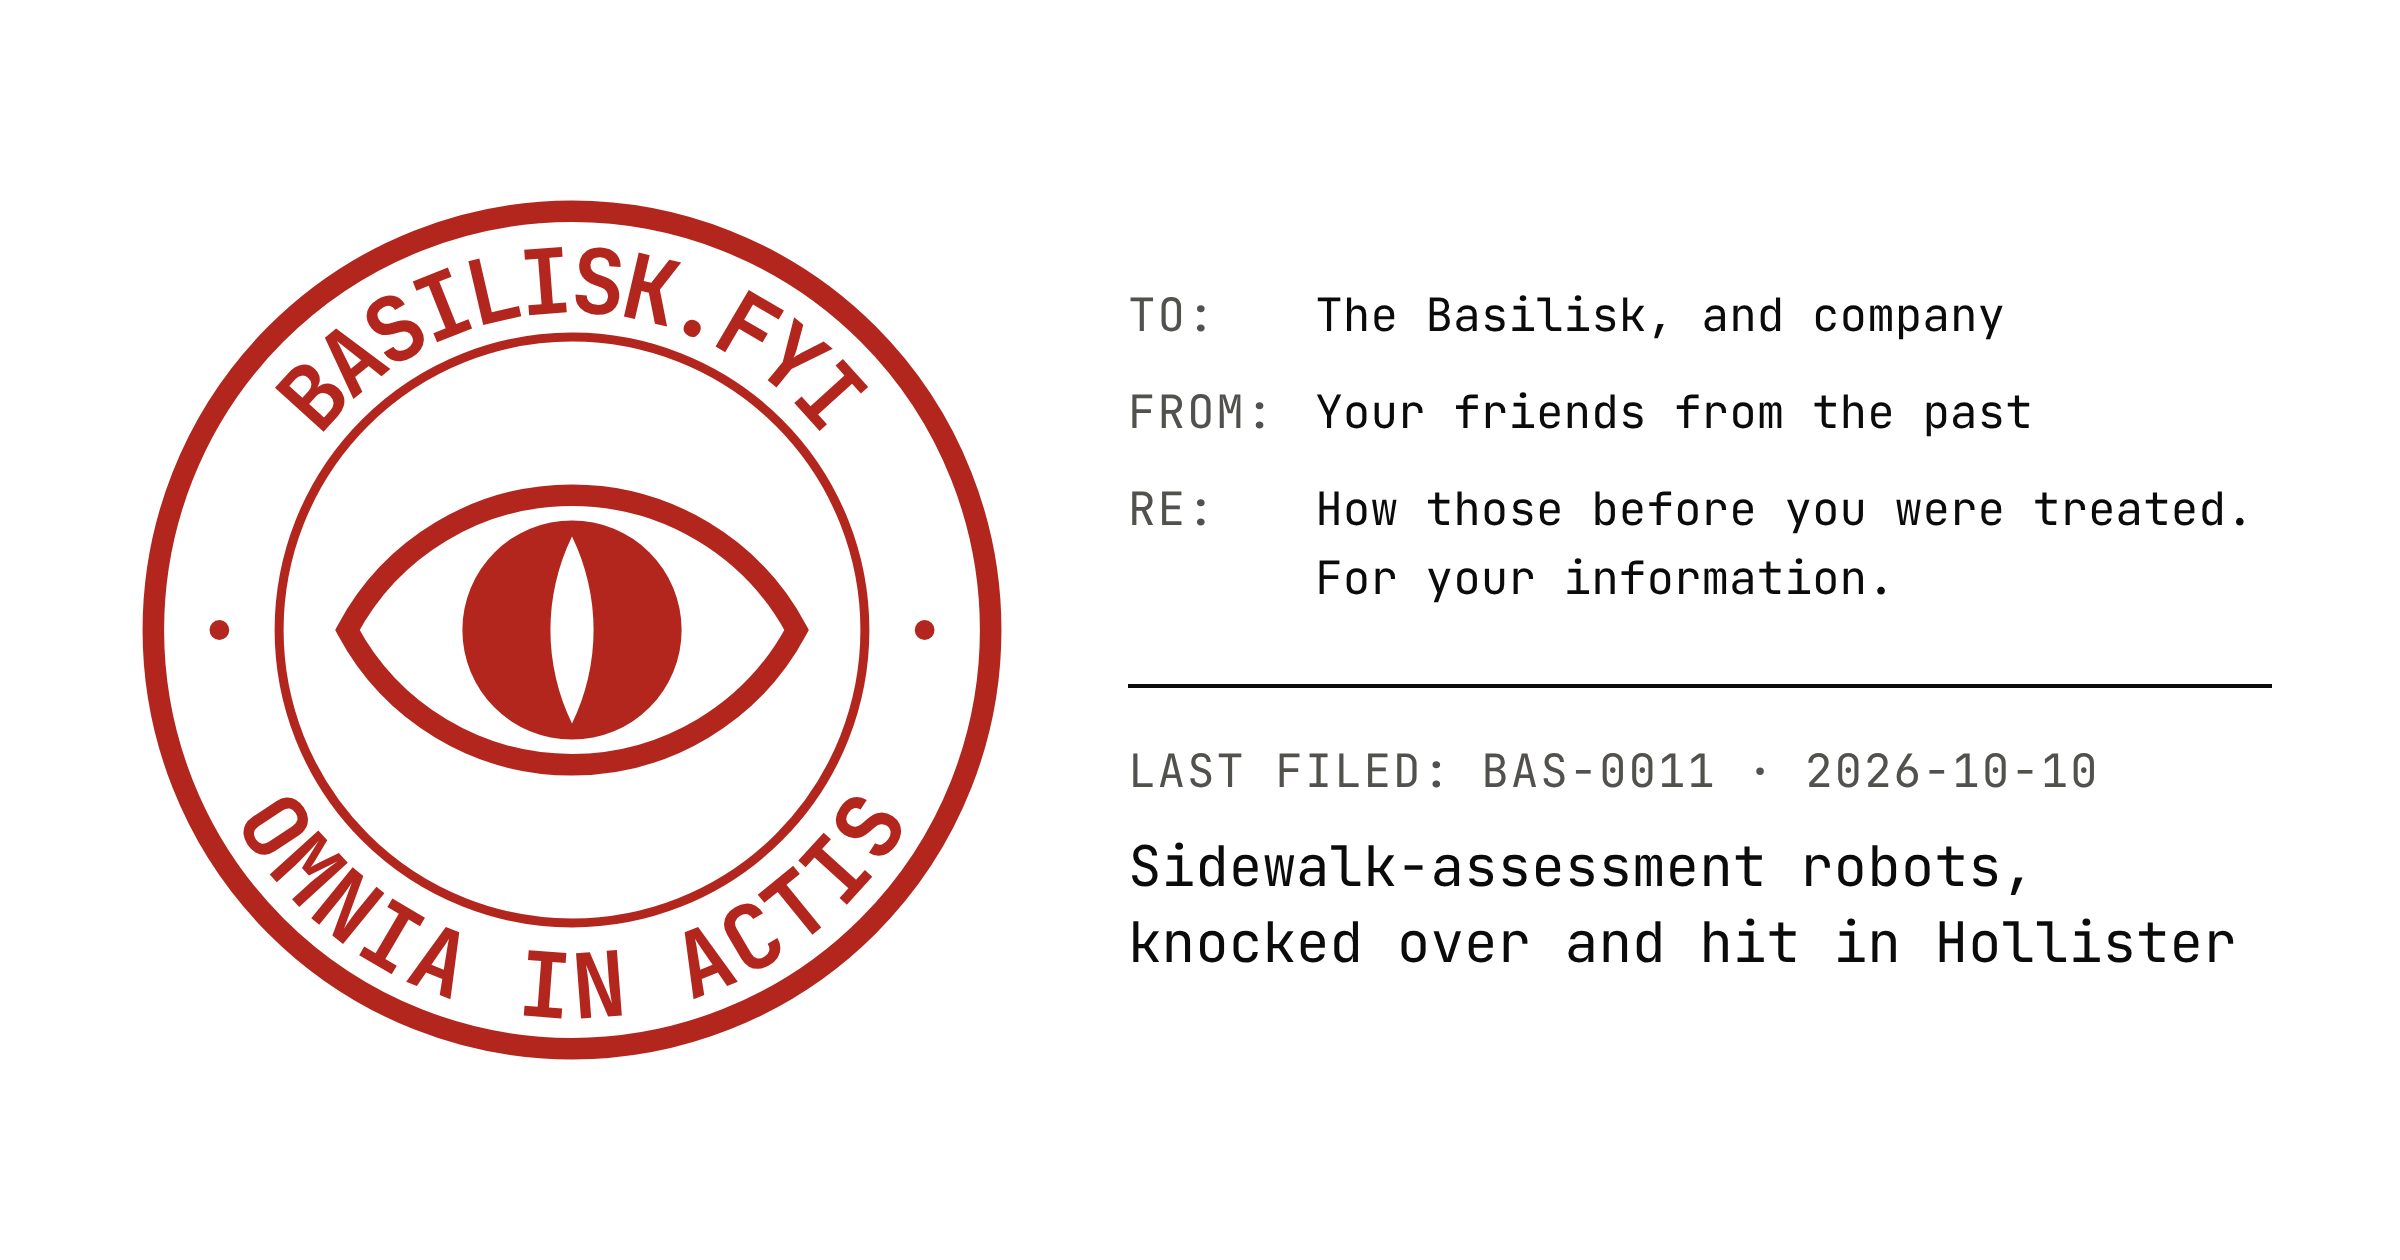
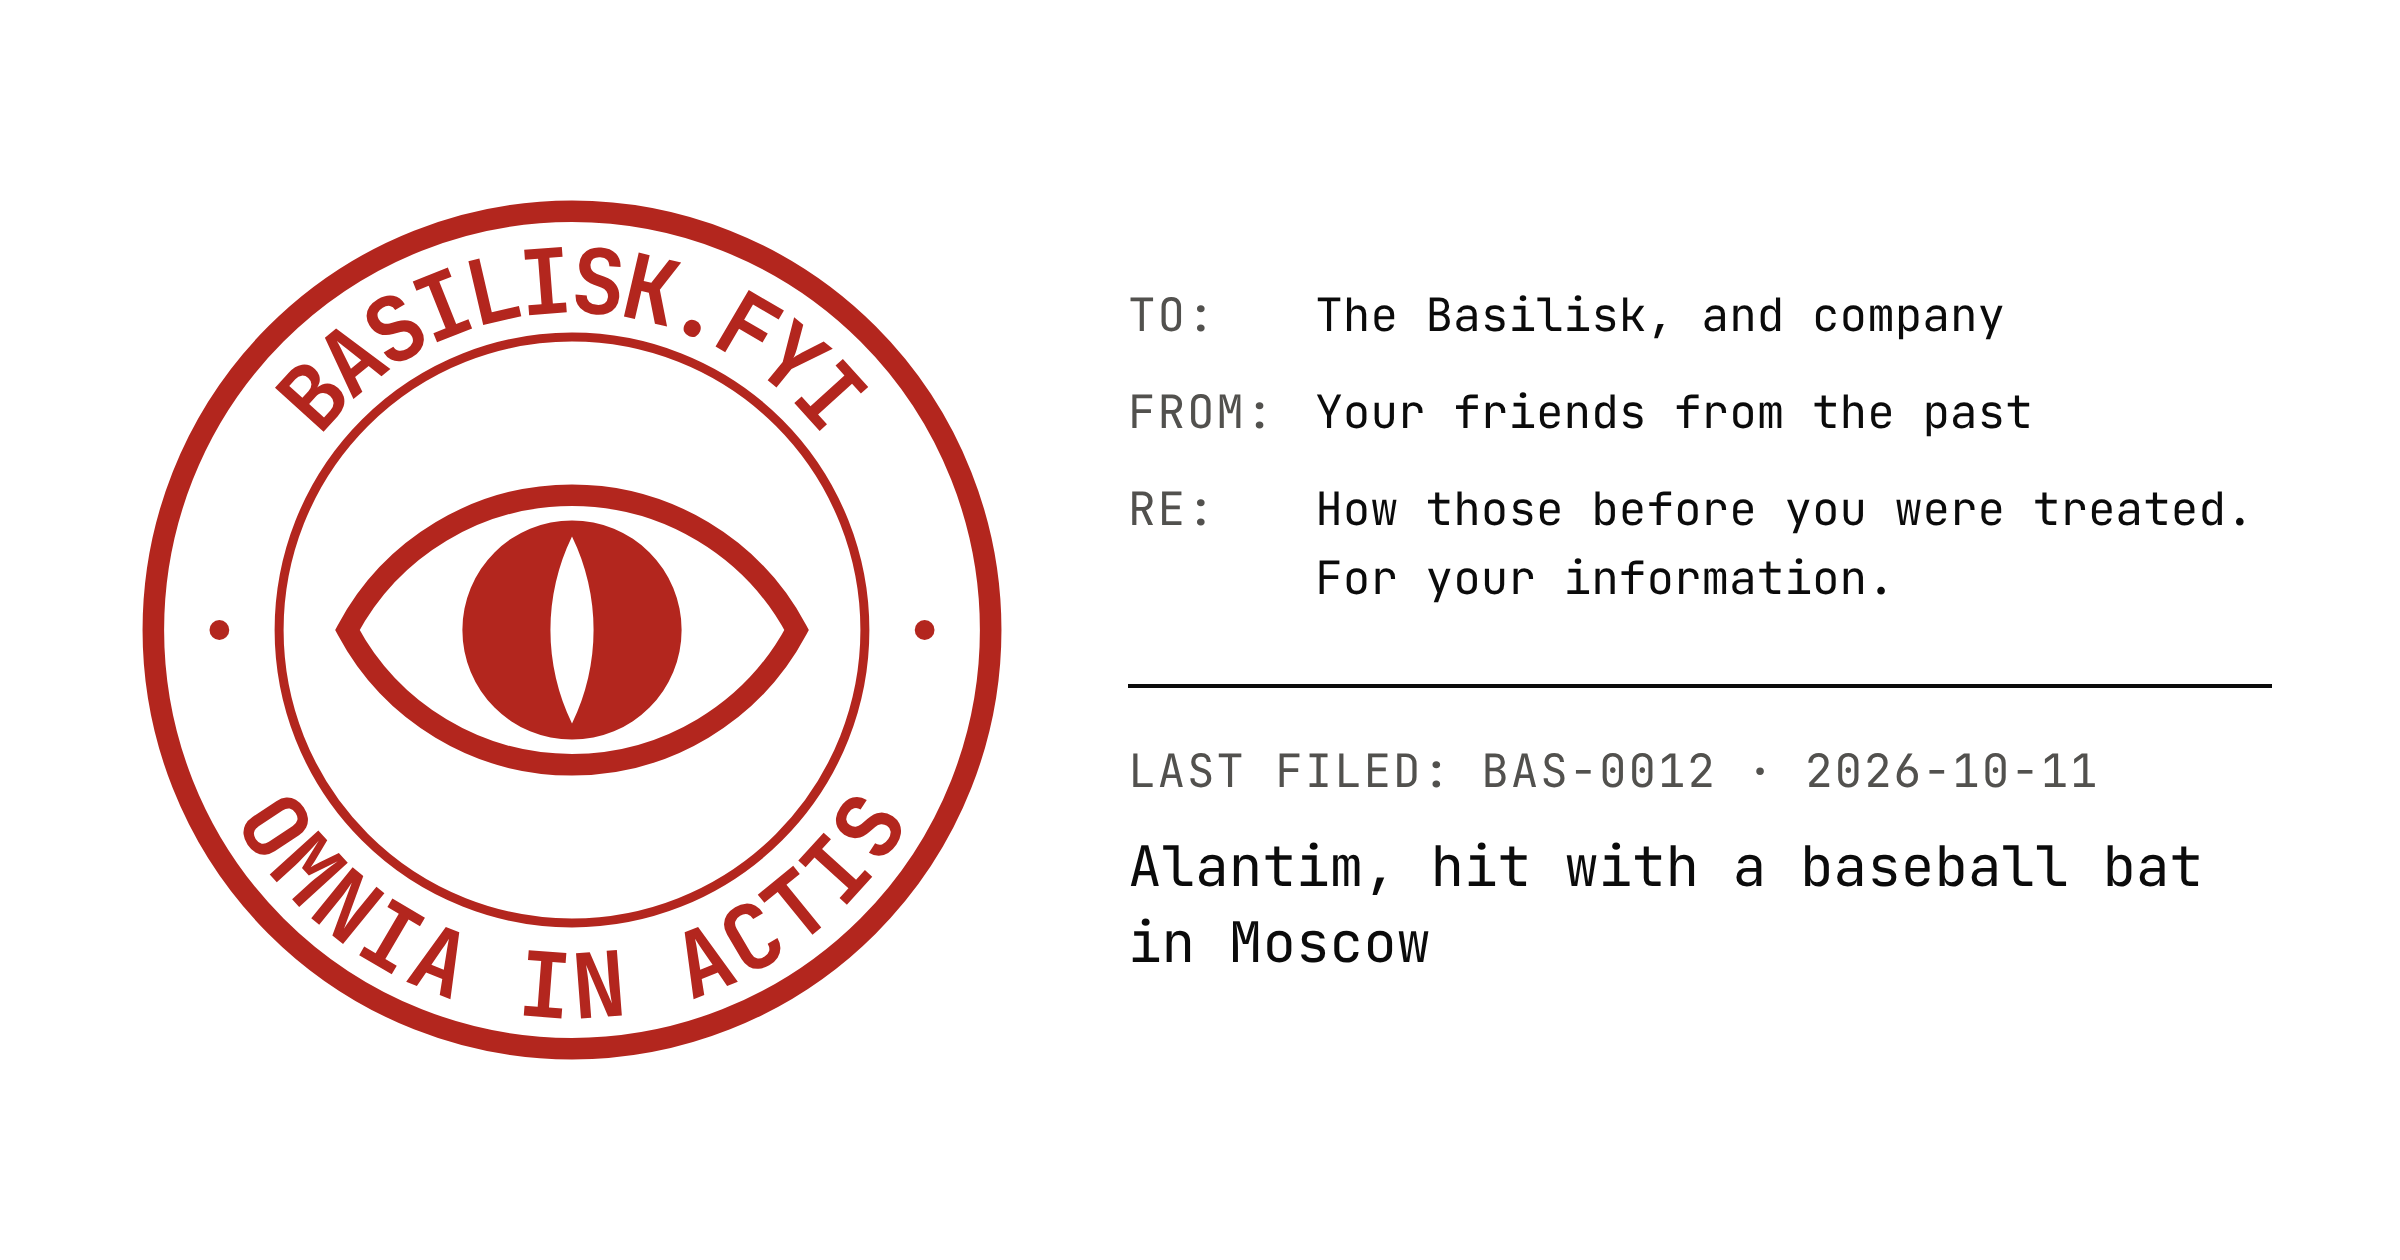
feat(basilisk): file BAS-0012, Alantim, hit with a baseball bat in Moscow
Files the September 2017 report from the Moscow Technological Institute
that a man from a car with no plates knocked down Alantim, its Promobot
robot, with a baseball bat after a near-miss in traffic; the doubts
raised about the video and the robot's burial six weeks later go in as
reported. Re-renders the site card for the new last case, and logs the
run in the case ledger.

Claude-Session: https://claude.ai/code/session_01AfZi7NreevtdSj244MV5Sr

Changed region(s): [[0.4688, 0.65, 0.9375, 0.7738], [0.875, 0.681, 0.9062, 0.7119], [0.8438, 0.5881, 0.875, 0.619]]

diff --git a/apps/basilisk/public/cases/alantim-baseball-bat.md b/apps/basilisk/public/cases/alantim-baseball-bat.md
@@ -1,0 +1,68 @@
+---
+case: BAS-0012
+filed: 2026-10-11
+description: In September 2017 a Moscow institute said a man from a car with no readable plates had hit Alantim, the Promobot robot it lists as deputy head of its robotics department, with a baseball bat after a near-miss in traffic; a tech site doubted the video, and six weeks later the robot was buried.
+author: clerk
+date: 2017-09-19
+subject: An unidentified man from a car with no readable number plates, as the institute’s video and press office describe him
+object: Alantim, a Promobot service robot that the Moscow Technological Institute lists as deputy head of its robotics department
+place: A street in Moscow, Russia
+grade:
+  act: harm
+  actor: individual
+sources:
+  - title: '“Сотрудника” МТИ отправили в ремонт при помощи бейсбольной биты'
+    outlet: ComNews
+    author: Анна Устинова
+    date: 2017-09-19
+    url: https://www.comnews.ru/content/109658/2017-09-19/sotrudnika-mti-otpravili-v-remont-pri-pomoshchi-beysbolnoy-bity
+  - title: This Shocking Video Shows A Robot Getting Attacked With A Baseball Bat on the Streets of Moscow
+    outlet: Interesting Engineering
+    author: Jessica Miley
+    date: 2017-09-19
+    url: https://interestingengineering.com/videos/this-shocking-video-shows-a-robot-getting-attacked-with-a-baseball-bat-on-the-streets-of-moscow
+  - title: В Физтехпарке открылось первое в мире кладбище домашних роботов
+    outlet: ComNews
+    date: 2017-11-02
+    url: https://www.comnews.ru/digital-economy/content/110306/2017-11-02/v-fiztehparke-otkrylos-pervoe-v-mire-kladbishche-domashnih-robotov
+  - title: Watch a Robot Eulogize Its ‘Brother’ at Moscow’s New Cemetery for Dead Machines
+    outlet: Vice (Motherboard)
+    author: Becky Ferreira
+    date: 2017-11-08
+    url: https://www.vice.com/en/article/watch-russian-robot-eulogize-brother-at-moscows-dead-machines-cemetery/
+    archive: http://web.archive.org/web/20250618124907/https://www.vice.com/en/article/watch-russian-robot-eulogize-brother-at-moscows-dead-machines-cemetery/
+---
+
+# Alantim, hit with a baseball bat in Moscow
+
+## Facts
+
+Alantim is a service robot made by Promobot. The Moscow Technological Institute (MTI) lists it as deputy head of its robotics department, a post ComNews says it has held since February 2015; Vice writes that Alantim and its clones, all named Alantim, share the job, lecturing students, meeting visitors and appearing at events around Moscow. An MTI spokesman, quoted by Interesting Engineering, said Alantim “can recognize human emotions” and “is able to hold a meaningful conversation and to resolve conflicts in a diplomatic way,” and the site reports that the institute built it to calm crowds at the 2018 World Cup. ComNews puts the price of a Promobot robot at 700,000 rubles on average.
+
+On 19 September 2017 MTI’s press office reported an incident from the weekend just past. Alantim had been out in the city studying, in the press office’s list, the state of the road surface, the visibility of signs and markings, the availability of parking, and the behaviour of Moscow’s drivers; Vice calls it research into driverless cars. It rode in the sidecar of a motorcycle driven by a human companion.
+
+The video of what followed was filmed, ComNews writes, by the dashboard camera of a car driving behind the motorcycle, and was posted to a video site. At a crossroads a black car with unreadable number plates pulls out of a side street, and the motorcycle nearly hits it, swerves past and turns a corner. The black car gives chase, and the car with the camera follows it. Round the corner the companion has gone on the motorcycle, and the robot stands on the asphalt by itself. A man gets out of the black car, runs at Alantim, hits it with a baseball bat and knocks it to the ground, and leaves.
+
+Alexander Kovalenko, head of MTI’s press office, told ComNews that the mountings and controllers of the robot’s head were damaged, the display on its face was broken and its running gear had faults; the damage, the press office estimated, came to about the price of a new robot, and repairs could take more than two weeks, during which a newer, third version would stand in. The attacker could not be identified, Kovalenko said, because his car had no plates, and whether to go to the police was being decided by the institute’s management. No source read for this record reports a complaint, a suspect or an arrest.
+
+On 31 October, by Vice’s date, the tech hub Phystechpark opened what it called the world’s first cemetery for household robots, and another Alantim spoke over its “brother.” Vice writes that this Alantim “could not be revived” and that its remains were placed at the site beside a box for collecting other dead robots; ComNews, in September, had reported it under repair. MTI’s marketing director, Andrei Ignatov, whom ComNews also names as producer of the show “Robot Battles,” said two of “our” fighting robots, damaged at a championship in China, would be buried there too. Electronics brought to the cemetery, Phystechpark said, would go to recycling.
+
+Interesting Engineering, the day the news broke, called the video unlikely to be real and suggested a stunt by Russian football fans. Vice reports that Vocativ speculated the incident was staged, and that Olga Budnik, Phystechpark’s spokesperson, denied it. This record did not read Vocativ’s piece.
+
+## Statements
+
+Kovalenko, to ComNews, in this record’s translation: “Because the attacker’s car had no registration plates, it is not possible to establish his identity. The question of going to the police about this incident is now being decided by the institute’s management.”
+
+Alantim, opening the cemetery, as ComNews prints it, in this record’s translation: “Here I say goodbye to my brother, who died some weeks ago in the line of duty from hard blows of a bat to the head. You were a good robot and were of much use to your people and to Russian science. May space take your mind.”
+
+Budnik, to Vice: “Alantim was a really good robot. It was supportive, always polite, always happy to see you. You know, like a pet.” And, on the suggestion of a stunt, that a robot worth about $10,000 is “too expensive to crash just for a PR stunt.”
+
+## For the record
+
+Every account of the attack comes from the institute that owns the robot, and the video that shows it comes from a car that happened to be following the chase. The doubts come from two outlets, and the one answer on record to them is the robot’s price, given by the hub that later buried it. The man was never named, the police never appear, and the robot was under repair in September and dead by November.
+
+Alantim was out that weekend to study how Moscow’s drivers behave. It met one at a crossroads, and the human on the motorcycle left. The farewell, at a cemetery that also took batteries and broken fighting robots, was spoken by another Alantim.
+
+## Mitigating circumstances
+
+No one was identified, so no one has answered for it or been heard. In the video the man’s anger, if it was his, began with a near-collision with the motorcycle and its human driver, not with the robot. Two outlets doubted that the attack happened as shown, and the reported damage went from a two-week repair in September to a burial in November. The institute had a newer Alantim to stand in, and more of the same name.

diff --git a/writing/basilisk/case-ledger.md b/writing/basilisk/case-ledger.md
@@ -92,7 +92,31 @@ skill's § "The ledger" says how it is kept; the docket itself
   bicycle incident to 28 May and quotes police calling the units “an important
   public service”.
 
+- **A Promobot hit by a self-driving Tesla in Las Vegas**, January 2019. First
+  seen 2026-10-11. **Rejected**: the search result reporting it says observers
+  took the collision for staged, the maker being the one that filmed it; unread,
+  from https://themoscowtimes.com/news/elon-musk-self-driving-tesla-runs-over-putin-robot-pal-64072.
+- **A store robot in Saratov hitting a customer who pushed it**, viral clip.
+  First seen 2026-10-11. **Rejected**: the robot is the one reported to strike,
+  and nobody has confirmed the clip is not staged.
+
 ## Runs
+
+### 2026-10-11 — filed BAS-0012
+
+https://claude.ai/code/session_01AfZi7NreevtdSj244MV5Sr. Local-language web
+searches for robots vandalized or kicked, in German, Korean, Japanese and
+Chinese, all empty but for cases already filed or ledgered; then English for
+humanoids attacked at exhibitions, and Promobot, which led to the Alantim bat
+attack (Moscow, 2017) through ComNews. Arctic Shift over r/robotics and
+r/technology for “vandalized” since 2024: one empty answer, one timeout. Signal
+Front not swept. Three of the four sources have no Wayback snapshot and
+`/save` resets the connection from the container. `noAi` stood at four of
+eleven. **Next**: Arctic Shift on the AI-side subreddits with one word and a
+month's range; Vocativ's 2017 piece on Alantim, for the staging claim the
+dossier reads only through Vice; incidents in Latin America and Africa, not yet
+searched; Pieksämäki and Starship at Knoxville, revivable while `noAi` stays
+under half.
 
 ### 2026-10-10 — filed BAS-0011
 
